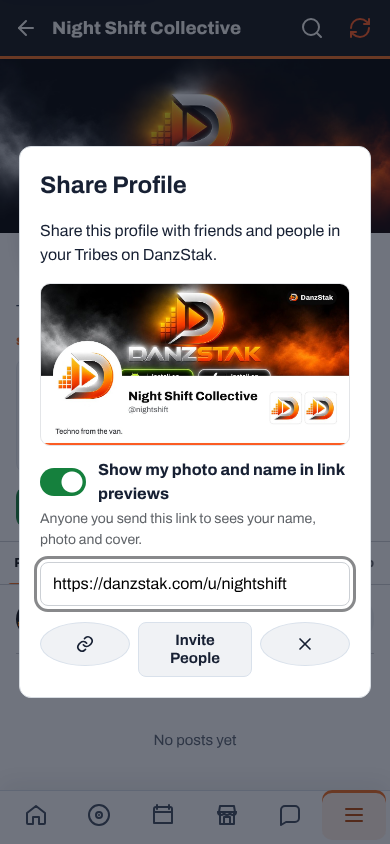
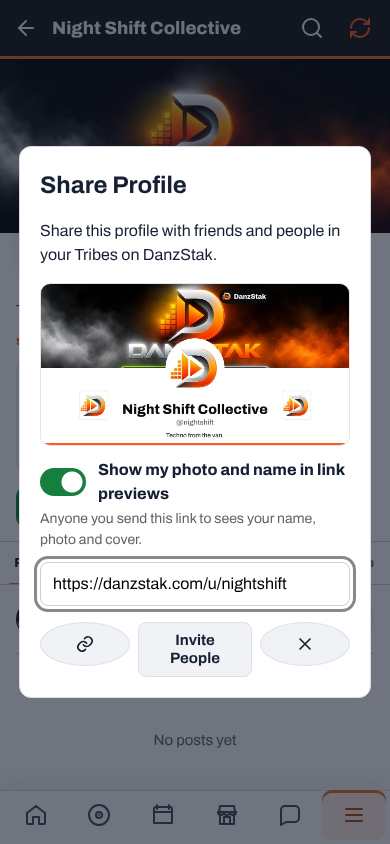
Share card: photo and name in the middle square
Facebook's post box shows only the middle square of the 1200x630 card,
which cut off the round photo on the left and the shop photos on the
right (the feed shows the full width). The photo, name, @username, bio
and the DanzStak mark now sit in the middle square; up to four shop
photos sit outside it, two each side.

profile-share-card.cjs checks the photo's white ring and the name are in
the middle square, and fails on the old layout.

Claude-Session: https://claude.ai/code/session_01B3uuzLULLY8hw3RkkU8VCN

Changed region(s): [[0.0923, 0.3389, 0.8923, 0.5237]]

diff --git a/assets/profile-share-card.js b/assets/profile-share-card.js
@@ -1,12 +1,12 @@
 "use strict";
 // SHARE (owner 2026-11-21, spec 44): "When a user share their profile it should show just like the image I uploaded."
 // The member's own browser draws their link-preview card (1200x630 JPEG under 300 KB) from the profile it already shows:
-// the cover across the top (where they placed it), the round profile picture overlapping it, the name in bold beside it,
-// the @username, up to three shop photos, and a small DanzStak mark. It is uploaded like any profile picture and the
-// server serves it at danzstak.com/@username/card.jpg, only while the member keeps "Show my photo and name in link
+// the cover across the top (where they placed it), the round profile picture overlapping it, the name in bold under it,
+// the @username, up to four shop photos, and a small DanzStak mark. It is uploaded like any profile picture and the
+// server serves it at danzstak.com/u/username/card.jpg, only while the member keeps "Show my photo and name in link
 // previews" on. It is drawn again when the profile changes (a signature of what it was drawn from).
 (() => {
-  const API = "https://api.danzstak.com", W = 1200, H = 630, COVER = 360, LIMIT = 290 * 1024, VERSION = "card-3";
+  const API = "https://api.danzstak.com", W = 1200, H = 630, COVER = 330, SAFE_X = (W - H) / 2, LIMIT = 290 * 1024, VERSION = "card-4";
   const FONT = '"DanzStak Sans", Archivo, system-ui, sans-serif';
 
   // Pictures are read with fetch (CORS) so the canvas is never tainted; a picture that can't be read is left out. Never from
@@ -68,7 +68,7 @@
       const response = await fetch(API + "/marketplace/shop", { credentials: "include", cache: "no-store" });
       if (!response.ok) return [];
       const data = await response.json().catch(() => ({}));
-      return (data.shop?.products || []).filter(item => item.available && item.imageUrl).slice(0, 3);
+      return (data.shop?.products || []).filter(item => item.available && item.imageUrl).slice(0, 4);
     } catch { return []; }
   }
 
@@ -89,30 +89,31 @@
     if (cover) { context.save(); context.beginPath(); context.rect(0, 0, W, COVER); context.clip(); drawCovered(context, cover, 0, 0, W, COVER, profile.coverX, profile.coverY, profile.coverZoom); context.restore(); }
     else { const ground = context.createLinearGradient(0, 0, W, COVER); ground.addColorStop(0, "#0b0b0c"); ground.addColorStop(1, "#2a1206"); context.fillStyle = ground; context.fillRect(0, 0, W, COVER); }
     context.fillStyle = "#ff5a1f"; context.fillRect(0, H - 8, W, 8);
-    // The round profile picture on the cover's edge, in a white ring.
-    const size = 250, ax = 56, ay = COVER - size / 2;
-    context.fillStyle = "#ffffff"; context.beginPath(); context.arc(ax + size / 2, ay + size / 2, size / 2 + 10, 0, Math.PI * 2); context.fill();
-    context.save(); context.beginPath(); context.arc(ax + size / 2, ay + size / 2, size / 2, 0, Math.PI * 2); context.clip();
+    // Owner 2026-11-22 ("Sizing changed"): Facebook's post box shows only the middle square of the card, so the photo, the
+    // name, the @username, the bio and the mark sit in that square (SAFE_X to W - SAFE_X); the shop photos sit outside it,
+    // where the full-width card in the feed shows them.
+    const size = 210, cx = W / 2, safe = H - 60, ax = cx - size / 2, ay = COVER - size / 2;
+    context.fillStyle = "#ffffff"; context.beginPath(); context.arc(cx, COVER, size / 2 + 10, 0, Math.PI * 2); context.fill();
+    context.save(); context.beginPath(); context.arc(cx, COVER, size / 2, 0, Math.PI * 2); context.clip();
     const face = faceLayer(avatar, size);
     if (face) context.drawImage(face, ax, ay);
-    else { context.fillStyle = "#121418"; context.fillRect(ax, ay, size, size); context.fillStyle = "#ff5a1f"; context.font = `800 120px ${FONT}`; context.textAlign = "center"; context.textBaseline = "middle"; context.fillText(String(profile.name || "D").trim().charAt(0).toUpperCase() || "D", ax + size / 2, ay + size / 2 + 6); }
+    else { context.fillStyle = "#121418"; context.fillRect(ax, ay, size, size); context.fillStyle = "#ff5a1f"; context.font = `800 100px ${FONT}`; context.textAlign = "center"; context.textBaseline = "middle"; context.fillText(String(profile.name || "D").trim().charAt(0).toUpperCase() || "D", cx, COVER + 6); }
     context.restore();
-    // Up to three shop photos at the right of the white band.
-    const tile = 124, gap = 12, photos = shop.filter(Boolean), tilesWidth = photos.length ? photos.length * tile + (photos.length - 1) * gap : 0, tilesX = W - 48 - tilesWidth;
-    photos.forEach((image, index) => { const x = tilesX + index * (tile + gap), y = COVER + 64; context.save(); roundRect(context, x, y, tile, tile, 14); context.clip(); drawCovered(context, image, x, y, tile, tile); context.restore(); context.strokeStyle = "#e3e5e8"; context.lineWidth = 2; roundRect(context, x, y, tile, tile, 14); context.stroke(); });
-    // The name in bold beside the picture, then the @username.
-    const textX = ax + size + 34, textWidth = (photos.length ? tilesX - 28 : W - 48) - textX;
-    context.textAlign = "left"; context.textBaseline = "alphabetic"; context.fillStyle = "#0b0b0c";
-    const name = fitText(context, String(profile.name || "").trim() || "DanzStak", textWidth, 66, 38, 800);
-    context.fillText(name, textX, COVER + 96);
-    if (profile.handle) { context.fillStyle = "#5f6368"; context.fillText(fitText(context, "@" + profile.handle, textWidth, 30, 24, 500), textX, COVER + 142); }
-    // The one-line bio uses the rest of the band (one line, shortened with … when it doesn't fit).
+    // Up to four shop photos in the white band, two each side of the middle square, right first.
+    const tile = 112, gap = 12, edge = 24, top = COVER + (H - 8 - COVER - tile) / 2;
+    const slots = [W - SAFE_X + edge, SAFE_X - edge - tile, W - SAFE_X + edge + tile + gap, SAFE_X - edge - 2 * tile - gap];
+    shop.filter(Boolean).slice(0, 4).forEach((image, index) => { const x = slots[index]; context.save(); roundRect(context, x, top, tile, tile, 14); context.clip(); drawCovered(context, image, x, top, tile, tile); context.restore(); context.strokeStyle = "#e3e5e8"; context.lineWidth = 2; roundRect(context, x, top, tile, tile, 14); context.stroke(); });
+    // The name in bold under the picture, then the @username and a one-line bio, centred.
+    context.textAlign = "center"; context.textBaseline = "alphabetic"; context.fillStyle = "#0b0b0c";
+    context.fillText(fitText(context, String(profile.name || "").trim() || "DanzStak", safe, 60, 36, 800), cx, COVER + size / 2 + 74);
+    if (profile.handle) { context.fillStyle = "#5f6368"; context.fillText(fitText(context, "@" + profile.handle, safe, 28, 22, 500), cx, COVER + size / 2 + 116); }
     const bio = String(profile.bio || "").replace(/\s+/g, " ").trim();
-    if (bio) { context.fillStyle = "#30343a"; context.fillText(fitText(context, bio, W - 48 - ax, 28, 28, 500), ax, H - 44); }
-    // A small DanzStak mark on the cover.
-    context.save(); context.globalAlpha = 0.92; context.fillStyle = "#0b0b0c"; roundRect(context, W - 48 - 196, 28, 196, 56, 28); context.fill(); context.restore();
-    if (mark) context.drawImage(mark, W - 48 - 188, 36, 40, 40);
-    context.fillStyle = "#ffffff"; context.font = `800 26px ${FONT}`; context.textBaseline = "middle"; context.fillText("DanzStak", W - 48 - 140, 57);
+    if (bio) { context.fillStyle = "#30343a"; context.fillText(fitText(context, bio, safe, 24, 24, 500), cx, H - 30); }
+    // A small DanzStak mark on the cover, at the top right of the middle square.
+    const markX = W - SAFE_X - 24 - 196;
+    context.save(); context.globalAlpha = 0.92; context.fillStyle = "#0b0b0c"; roundRect(context, markX, 24, 196, 56, 28); context.fill(); context.restore();
+    if (mark) context.drawImage(mark, markX + 8, 32, 40, 40);
+    context.textAlign = "left"; context.fillStyle = "#ffffff"; context.font = `800 26px ${FONT}`; context.textBaseline = "middle"; context.fillText("DanzStak", markX + 56, 53);
     // JPEG under the limit (WhatsApp skips bigger previews).
     for (const quality of [0.86, 0.8, 0.72, 0.64, 0.56]) {
       const blob = await new Promise(resolve => canvas.toBlob(resolve, "image/jpeg", quality));

diff --git a/service-worker.js b/service-worker.js
@@ -1,6 +1,6 @@
 "use strict";
 
-const CACHE = "danzstak-shell-v1012";
+const CACHE = "danzstak-shell-v1013";
 const SHELL = [
   "/assets/offline.js", "/assets/identity-media.js", "/assets/time-label.js", "/assets/page-missing.js", "/assets/scramble-by-seller.js", "/assets/user-content-links.js", "/assets/user-content-links.css", "/assets/invite-sharing.js", "/assets/invite-sharing.css",
   "/assets/fonts/archivo.woff2", "/assets/fonts/jetbrains-mono.woff2", "/assets/fonts/anton.woff2", "/assets/fonts/special-elite.woff2", "/assets/fonts/work-sans.woff2", "/assets/fonts/pirata-one.woff2", "/assets/fonts/oswald.woff2", "/assets/fonts/source-serif-4.woff2", "/assets/fonts/syne.woff2", "/assets/fonts/dm-sans.woff2",

diff --git a/profile.html b/profile.html
@@ -65,7 +65,7 @@ h1{margin:0 0 6px;font-size:34px;line-height:var(--ds-leading-tight,1.2);letter-
 <link rel="stylesheet" href="assets/facebook-import.css?v=342">
 <link rel="stylesheet" href="assets/pivot.css?v=3">
 <script src="assets/facebook-import.js?v=343" defer></script>
-<script src="assets/profile-share-card.js?v=3" defer></script>
+<script src="assets/profile-share-card.js?v=4" defer></script>
 <script src="assets/profile-sharing.js?v=419" defer></script>
 <script src="assets/profile-friend.js?v=7" defer></script>
 <script src="assets/user-content-links.js?v=1" defer></script>

diff --git a/CLAUDE.md b/CLAUDE.md
@@ -999,6 +999,7 @@ Overlaps: A2 = T2a/T2b, A10 is part of 5a2, B10 includes T2g, C4 = T2h/T2i, D1 =
 Owner-session only: deploy the Auth API (AI EPK #567, Tribes privacy, albums, translate), Twilio upgrade, Stripe test keys, live testing on two real phones.
 
 ### Builder log (newest first)
+- 2026-11-22 19:15 UTC · Claude Code (session 01B3uuzL) · **share card centred** · PR (this branch) · #687 merged (cut-off photo decoded, never an empty circle). Owner: "Sizing changed" (Facebook's post box showed only the middle square of the 1200x630 card: the round photo on the left and the shop photos on the right were cut off; the feed shows the full width). The card now puts the photo, name, @username, bio and the DanzStak mark in the middle square (x 285-915) and up to four shop photos outside it, two each side. `profile-share-card.cjs` checks the photo's ring and the name sit in the middle square (fails on the old layout) · Next: owner opens Share once (card-4 redraws), Scrape Again, posts
 - 2026-11-22 18:50 UTC · Claude Code (session 01B3uuzL) · **share card photo** · PR (this branch) · #686 merged and live; owner: "audio works correctly on the roll". Owner: "Some how we lost the profile picture" (his shared card showed an empty white circle). Root cause: his saved profile picture is a cut-off JPEG; #680 drew it through an <img>, and on his Android Chrome a picture that isn't fully decodable draws nothing on a canvas. Now the card adds the missing JPEG end marker and decodes it with createImageBitmap, and the round photo is drawn on its own layer and only used when something was drawn (else the letter). `profile-share-card.cjs` models the phone and fails on the old code ([255,255,255] white) · Next: owner opens Share once (card-3 redraws) and Scrape Again; a fresh upload of the profile picture gives the whole photo
 - 2026-11-22 15:40 UTC · Claude Code (session 01B3uuzL) · **Roll sound** · PR (this branch) · #682 merged and live; owner checked the signed-out shop link on his phone from Facebook ("Correct", "It works"). Fixed "sound still goes off on the Roll videos after a couple of videos": `media-visibility.js` `playCandidate()` turned the member's sound off whenever the audible video's `play()` rejected, including an `AbortError` from a play cut short by a quick swipe; now only `NotAllowedError` (the browser refusing sound without a tap) does, and an interrupted play keeps the sound and retries. `test-roll-sound-session.cjs` covers both (fails on main) · Next: owner phone check of The Roll over several swipes; then the Dailies horizontal swipe report (2026-11-19) if it still happens
 - 2026-11-22 16:50 UTC · Claude (planning session, manager) · owner: "you have permissions to do whatever Code can't do, such as merge"; "if Code can merge tell it to merge"; "bring it all up to date so no old code". **#685 D0-1/2/3 merged** (deploy from GitHub; owner one-time setup in docs/DEPLOY.md). New queue row **BACKLOG**: Code brings every old open PR (18–21 Nov) up to date and tests it in a train, or closes it as superseded; Code merges its own green PRs (Manager's plan step 1); the planning session merges planning/data PRs and anything green Code leaves · Next: L-items, D0-4, BACKLOG each run
